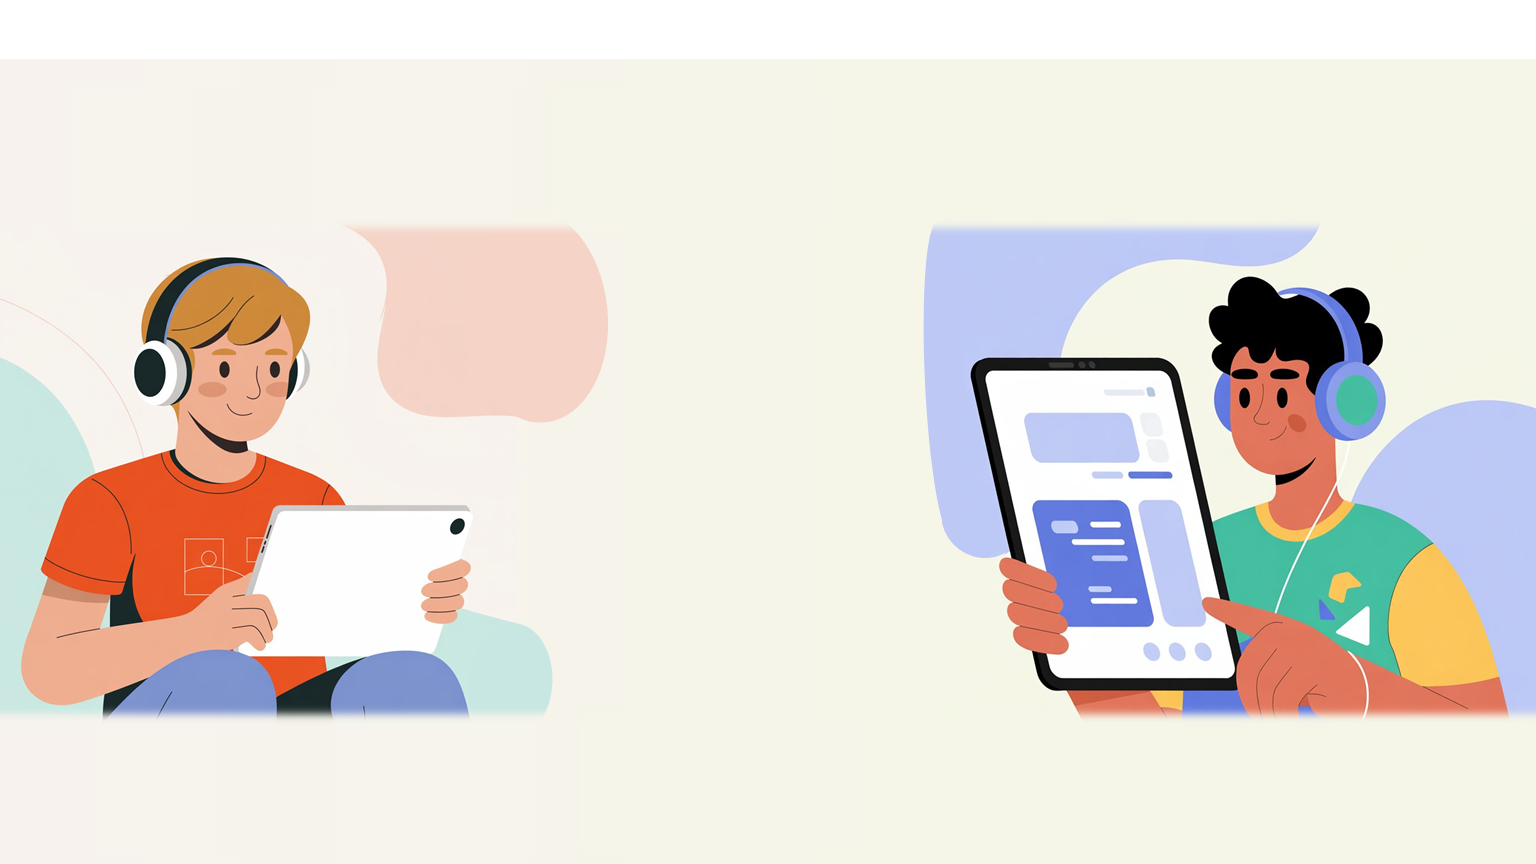
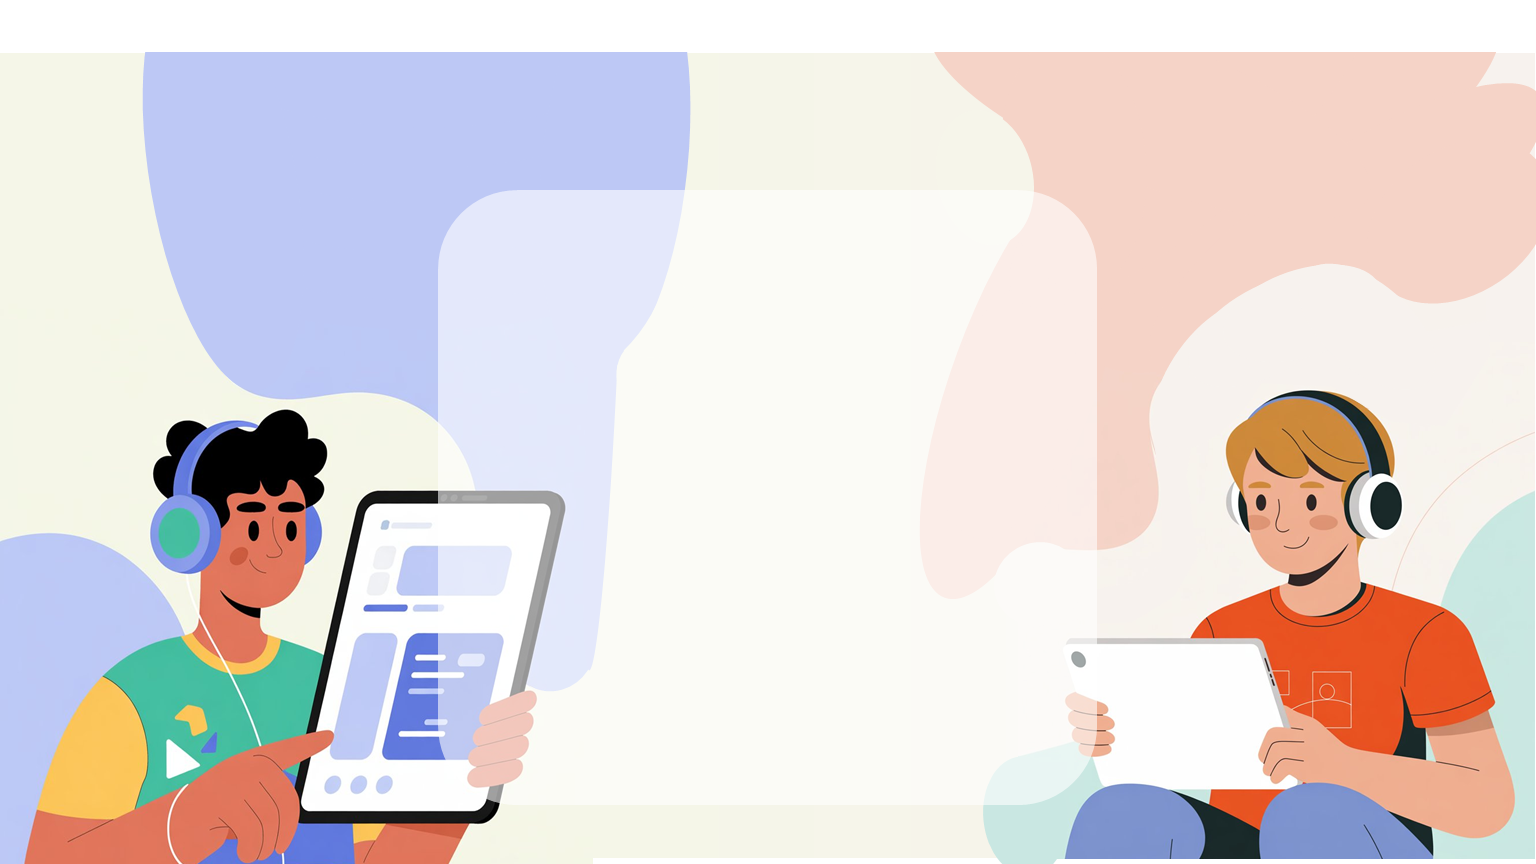
Front End

diff --git a/Frontend/summary.html b/Frontend/summary.html
@@ -1,0 +1,84 @@
+<!DOCTYPE html>
+<html lang="en">
+<head>
+  <meta c_set="UTF-8" />
+  <meta name="viewport" content="width=100%, initial-scale=1.0"/>
+  <title>VisionMate.AI</title>
+  <script src="https://cdn.tailwindcss.com"></script>
+  <link href="https://fonts.googleapis.com/css2?family=Inter:wght@800&display=swap" rel="stylesheet">
+  <style>
+    body {
+      font-family: 'Inter', sans-serif;
+      background-image: url('StaticFiles/img5.png');
+      background-size: cover;
+      background-position: center;
+      background-repeat: no-repeat;
+    }
+    .logo {
+      display: flex;
+      align-items: center;
+      font-size: 20px;
+      font-weight: normal;
+    }
+  </style>
+</head>
+<body class="min-h-screen bg-white">
+
+  <div class="flex h-12">
+    <div class="w-1/2 bg-[#5865f2]"></div>
+    <div class="w-1/2 bg-[#f7dd72]"></div>
+  </div>
+
+  <div class="flex justify-between items-center px-6 py-4 bg-white shadow-md">
+    <div class="flex items-center space-x-2">
+      <div class="logo">
+        <img src="StaticFiles/img3.png" alt="VisionMate Logo" class="w-15 h-10" />
+        
+      </div>
+    </div>
+  </div>
+
+ 
+  <div class="flex flex-col items-center justify-center text-center px-4 py-12">
+    <h1 class="text-3xl md:text-4xl font-extrabold text-black mb-6"><br><br>Choose a book & <br>we’ll summarize it<br></h1>
+
+
+    <div class="relative w-80 mb-8">
+      <select id="bookSelect" class="w-full border border-gray-300 rounded-lg p-3 text-lg shadow focus:outline-none">
+        <option value="" disabled selected><br>Select your book.<br></option>
+        <option value="book1">1. NCERT Mathematics Class IX - Number System</option>
+      </select>
+    </div>
+
+    <div id="controls" class="flex space-x-6 mt-4">
+      <button id="playBtn" class="bg-[#f7dd72] hover:bg-[#e6cb65] text-black px-6 py-2 rounded-full shadow-lg transition duration-300">
+        ▶ Play
+      </button>
+      <button id="pauseBtn" class="bg-[#5865f2] hover:bg-[#4752d6] text-white px-6 py-2 rounded-full shadow-lg transition duration-300">
+        ❚❚ Pause
+      </button>
+    </div>
+  </div>
+
+  <script>
+    const bookSelect = document.getElementById('bookSelect');
+    const playBtn = document.getElementById('playBtn');
+    const pauseBtn = document.getElementById('pauseBtn');
+
+    playBtn.addEventListener('click', () => {
+      const selectedBook = bookSelect.value;
+      if (selectedBook) {
+        alert(`Playing: ${bookSelect.options[bookSelect.selectedIndex].text}`);
+        
+      } else {
+        alert("Please select a book first!");
+      }
+    });
+
+    pauseBtn.addEventListener('click', () => {
+      alert("Playback paused.");
+    });
+  </script>
+
+</body>
+</html>

diff --git a/Frontend/main.html b/Frontend/main.html
@@ -3,13 +3,13 @@
 <head>
   <meta charset="UTF-8" />
   <meta name="viewport" content="width=device-width, initial-scale=1.0" />
-  <title>VisionMate.AI - Home</title>
+  <title>VisionMate.AI - Main</title>
   <script src="https://cdn.tailwindcss.com"></script>
   <link href="https://fonts.googleapis.com/css2?family=Inter:wght@800&display=swap" rel="stylesheet">
   <style>
     body {
       font-family: 'Inter', sans-serif;
-      background-image: url('StaticFiles/img4.png');
+      background-image: url('StaticFiles/img2.png');
       background-size: cover;
       background-position: center;
       background-repeat: no-repeat;
@@ -44,7 +44,7 @@
   <!-- Main content -->
   <div class="flex flex-col items-center justify-center text-center px-4 py-12">
     <h1 class="text-4xl md:text-5xl font-extrabold text-black leading-tight">
-      <br><br><br><br>Reimagining Education:<br>
+      <br><br>Reimagining Education:<br>
       AI That Makes<br>
       Learning a Reality for All.
     </h1>
